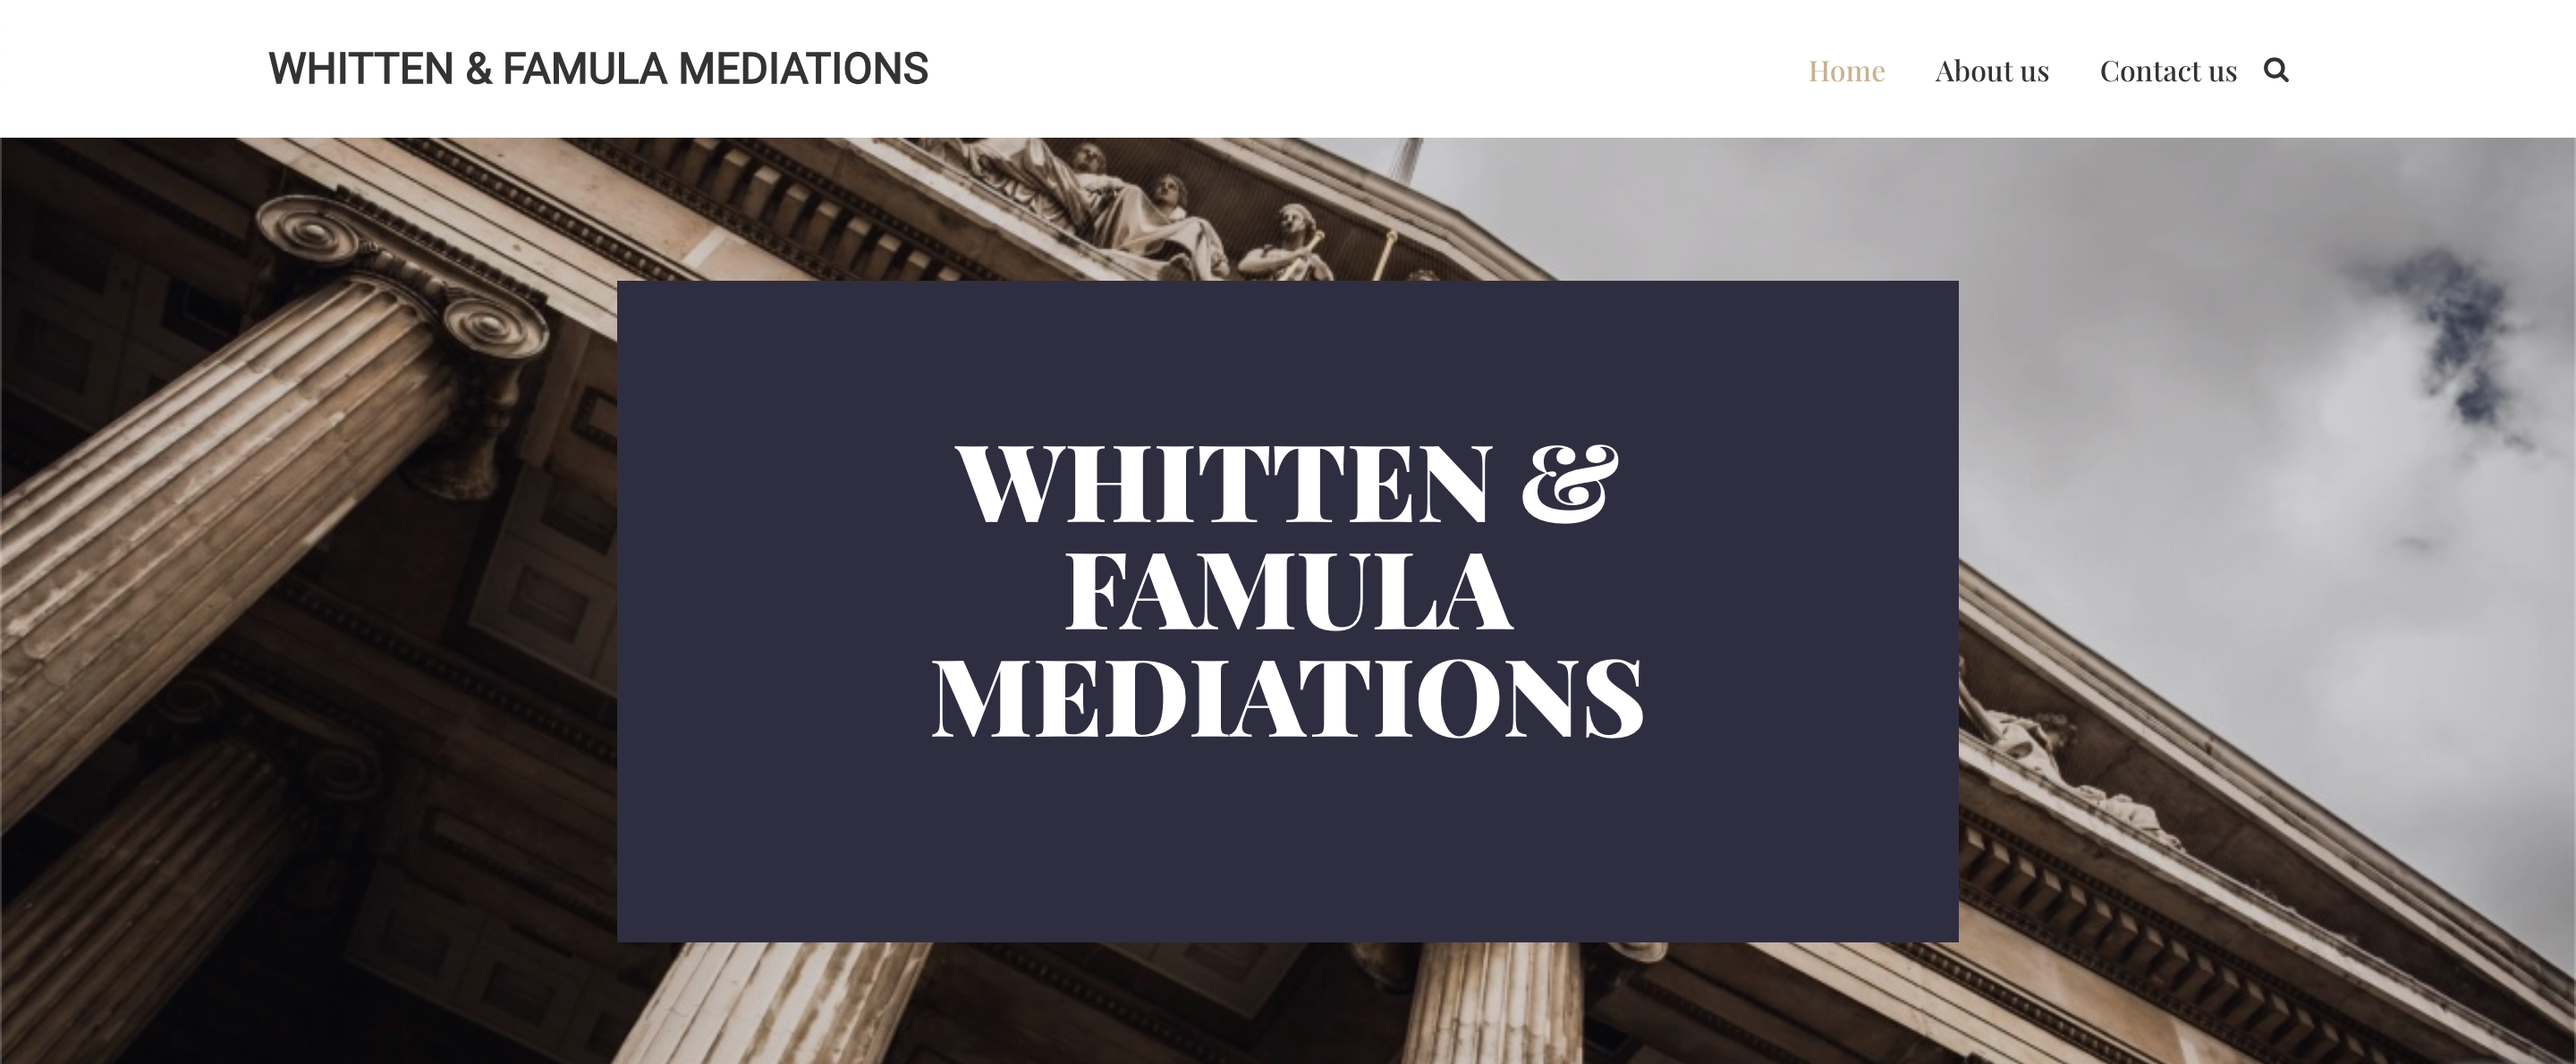
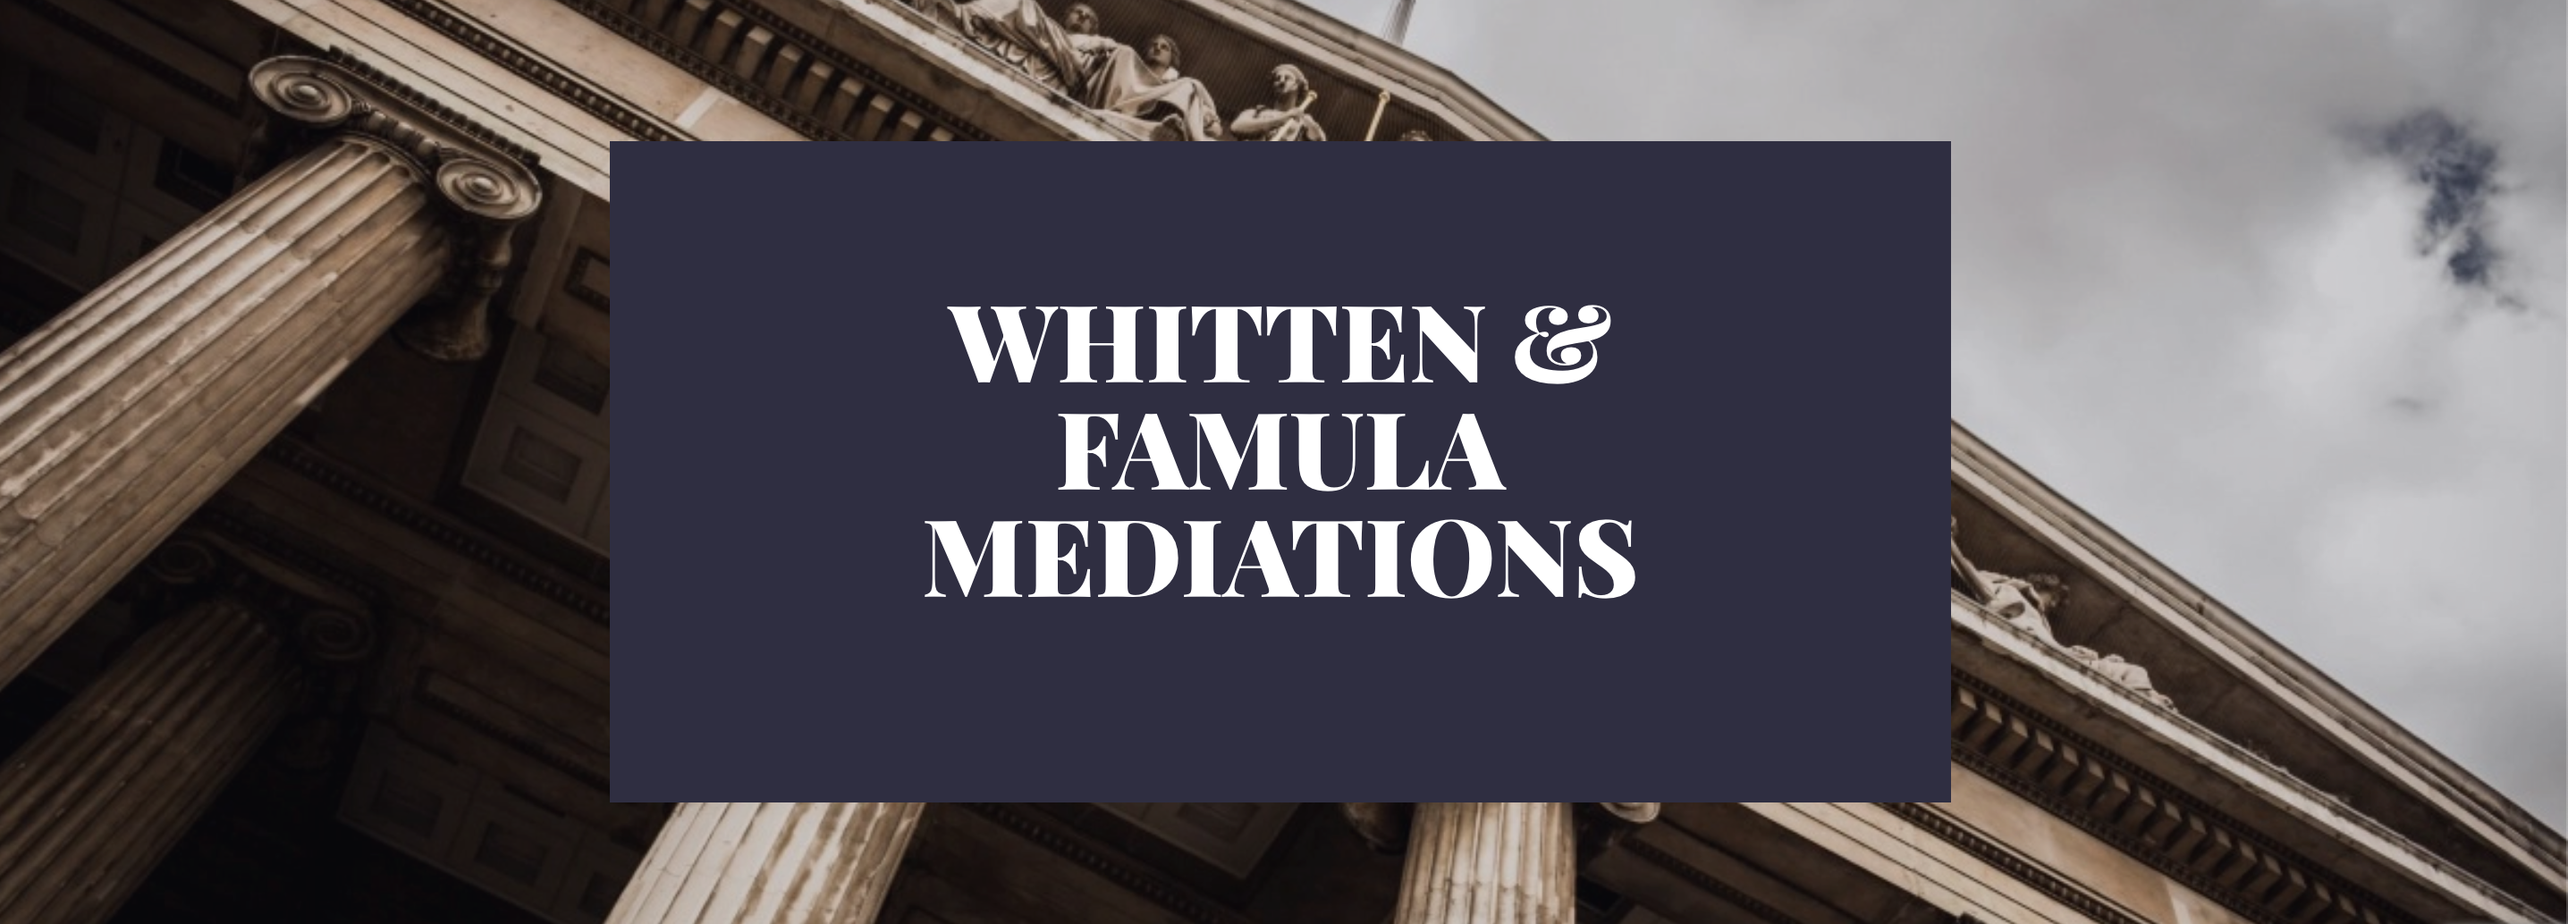
fix: image crop

diff --git a/app/components/project/Card.tsx b/app/components/project/Card.tsx
@@ -17,12 +17,12 @@ export default function ProjectCard({ content, more, projectLink, screenshotBase
 
   return (
   <div className="group bg-white rounded-lg shadow transition-all duration-300">
-    <div onClick={() => setOpen(true)} className="md:cursor-pointer relative aspect-[16/9] ml:aspect-[4/3] rounded-t-lg overflow-hidden">
+    <div onClick={() => setOpen(true)} className="md:cursor-pointer relative w-full h-auto aspect-video rounded-t-lg overflow-hidden">
       <Image 
         src={`/images/${screenshotBase}_screenshot.png`} 
         alt={`${title} screenshot`}
         fill
-        className="object-cover group-hover:scale-105 transition-transform duration-300"
+        className="w-full h-full object-cover object-top group-hover:scale-105 transition-transform duration-300"
         sizes="(min-width: 1024px) 33vw, (min-width: 768px) 50vw, 100vw"
         quality={100}
       />
